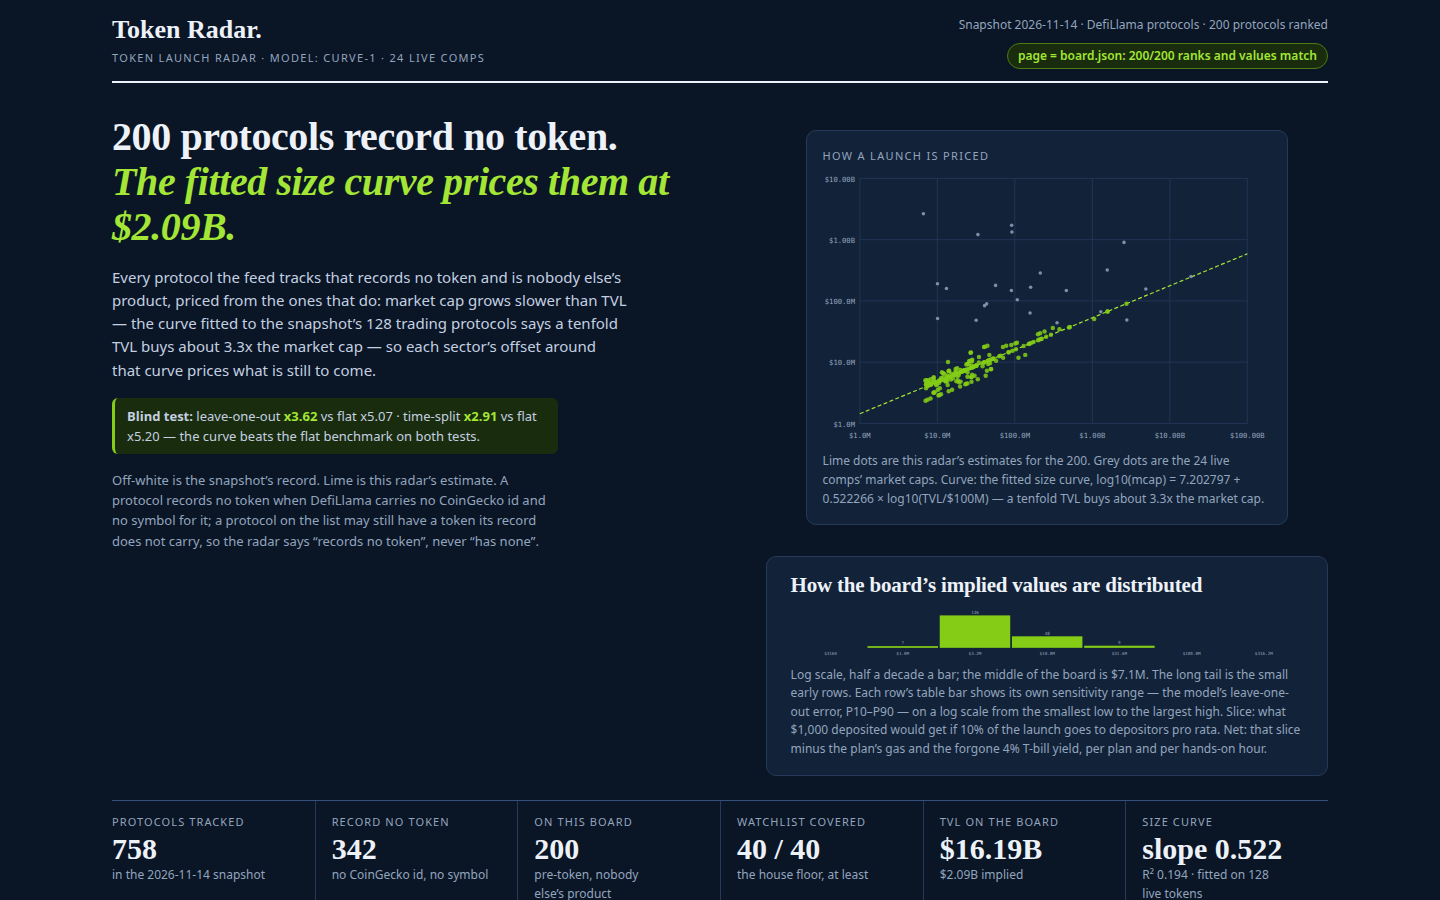
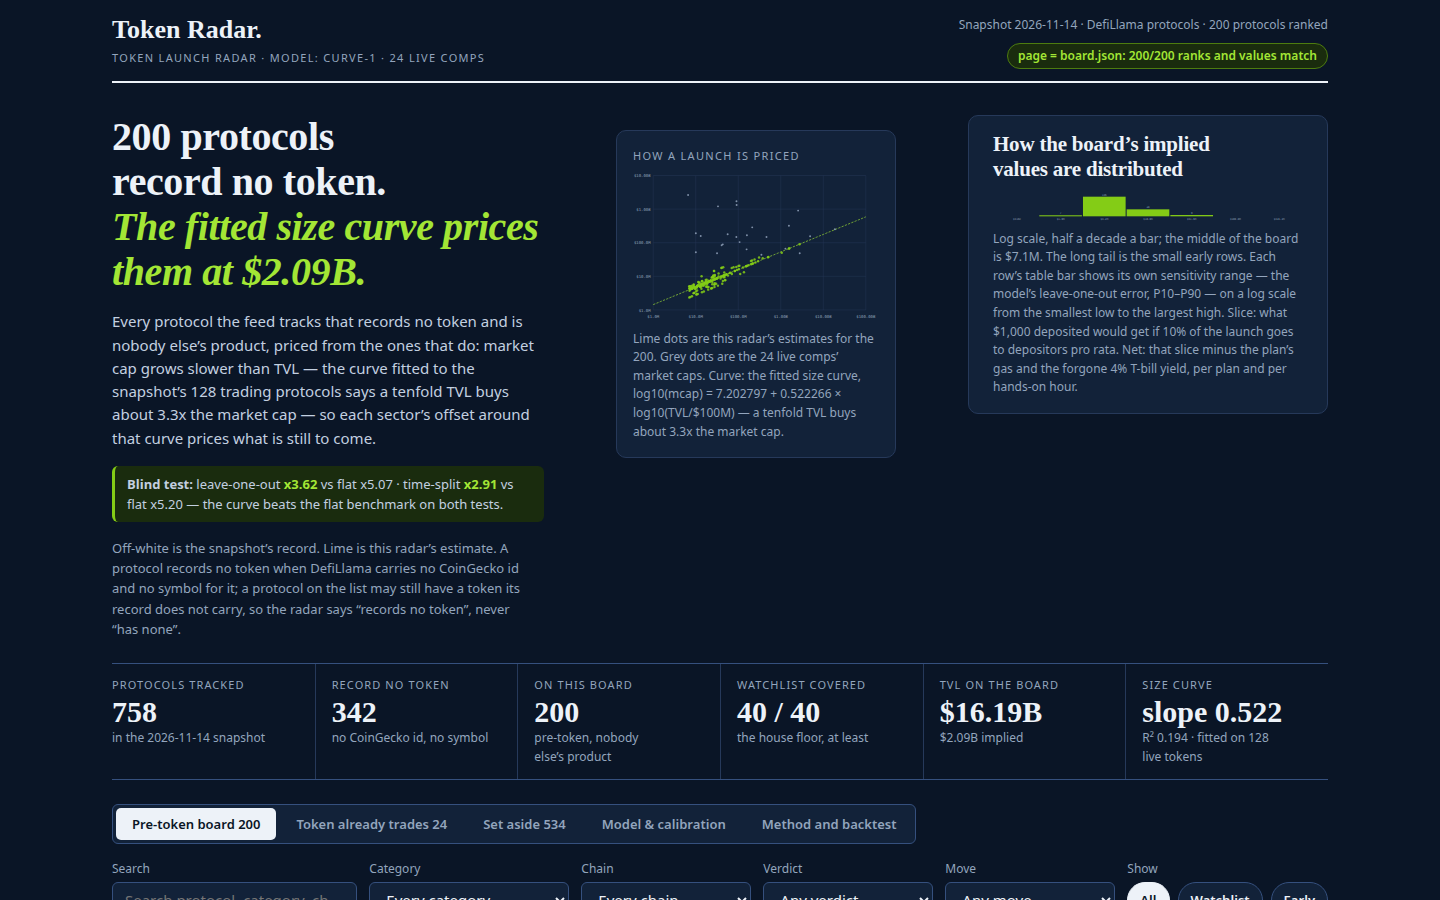
layout: hero in 3 columns, copy wider than scatter and histogram

diff --git a/dashboard/app.css b/dashboard/app.css
@@ -77,9 +77,7 @@ a { color: var(--accent); }
 }
 
 /* Hero: the claim left, the scatter right. */
-.hero { display: grid; grid-template-columns: minmax(0, 1.05fr) minmax(0, 0.95fr); gap: var(--step-6); padding: var(--step-6) 0 var(--step-5); align-items: start; }
-.hero-side { display: flex; flex-direction: column; gap: var(--step-4); min-width: 0; }
-.hero-side .hist { margin-top: 0; }
+.hero { display: grid; grid-template-columns: minmax(0, 1.2fr) minmax(0, 1fr) minmax(0, 1fr); gap: var(--step-6); padding: var(--step-6) 0 var(--step-5); align-items: start; }
 .hero-copy p { margin-top: var(--step-4); max-width: 60ch; color: var(--ink-soft); }
 .hero-copy p.note { font-size: 13px; color: var(--muted); }
 /* The hero's validation line: one honest sentence of backtest, so the board screenshot carries it. */
@@ -177,7 +175,7 @@ tbody tr[data-selected="true"] { background: var(--lime-soft); }
 .net-h { font-family: var(--font-num); font-size: 12px; white-space: nowrap; }
 
 /* Histogram. */
-.hist { margin-top: var(--step-4); padding: var(--step-4) var(--step-5); }
+.hist { padding: var(--step-4) var(--step-5); }
 .hist h2 { margin-bottom: var(--step-2); }
 .hist svg { display: block; width: 100%; height: auto; }
 .hist .hist-bar { fill: var(--lime); }

diff --git a/dashboard/app.js b/dashboard/app.js
@@ -268,7 +268,8 @@
         validLine,
         el('p', { class: 'note', text: 'Off-white is the snapshot\u2019s record. Lime is this radar\u2019s estimate. A protocol records no token when DefiLlama carries no CoinGecko id and no symbol for it; a protocol on the list may still have a token its record does not carry, so the radar says \u201crecords no token\u201d, never \u201chas none\u201d.' })
       ),
-      el('div', { class: 'hero-side' }, scatter(), histogram())
+      scatter(),
+      histogram()
     );
   }
 
